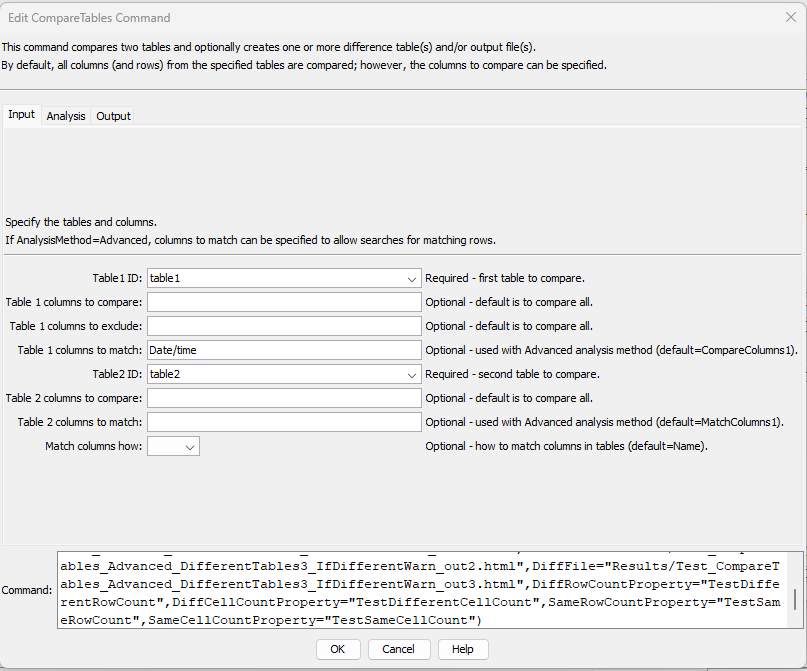
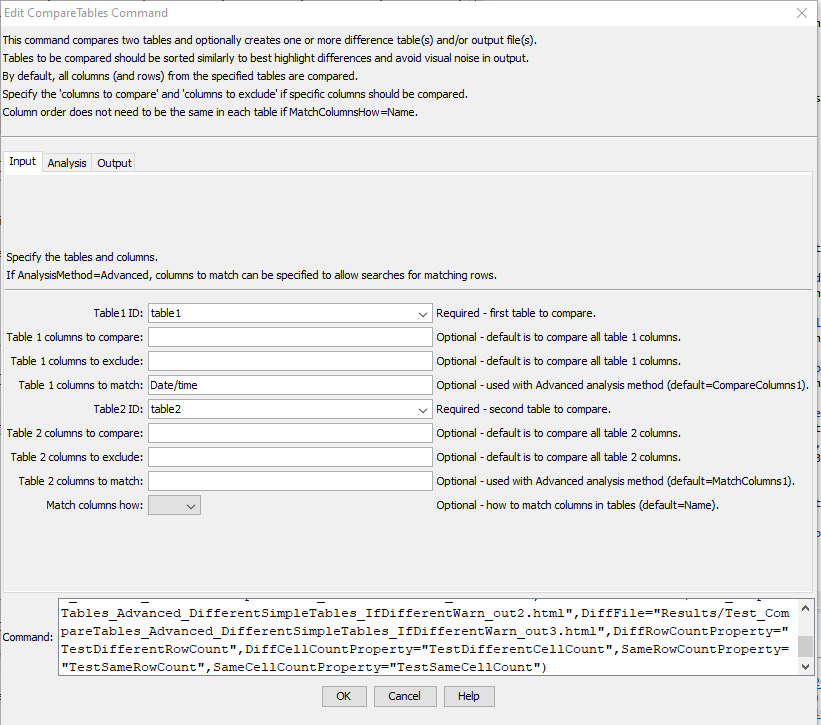
Update the documentation for the 14.9.4 release, issue #144

Changed region(s): [[0.0, 0.0, 1.0, 1.0], [0.0, 0.2086, 0.1549, 0.2385]]

diff --git a/mkdocs-project/docs/command-ref/Comment/Comment.md b/mkdocs-project/docs/command-ref/Comment/Comment.md
@@ -96,16 +96,16 @@ information to software that processes the commands.
 |`@enabled False`| Command processor.| **Used in automated tests.** Used to disable a command file.  For example, use this annotation in a test command file when the test is not ready for use in the software release process.|
 |`@enabledif ...` | Command processor. | **Used in automated tests.** The syntax is the same as `@require`, with the result being that if any conditions are not met, the command file is disabled.  Multiple annotations can be used, each with different requirements, for example to ensure that functionality is tested with different versions of a database datastore and software version. |
 |`@expectedStatus Failure`<br>`@expectedStatus Warning`|[`RunCommands`](../RunCommands/RunCommands.md) command| **Used in automated tests.** Used to help the test framework know if an error or warning is expected, in which case a test can pass even if the command status is not “success”.  If the actual status from a command file (most severe status of all commands) does not match the expected status, the user interface will indicate a failure. |
-|`@fixme ...`|| Indicate something to fix, such as a bug in the command file logic.  A comment typically has the form `#@fixme user date Comment`, for example: `#@fixme smalers 2021-06-14 Need to fix the following input file`. A future TSTool enhancement is planned to list such annotations. |
+|`@fixme ...`|| Indicate something to fix, such as a bug in the command file logic.  A comment typically has the form `#@fixme user date Comment`, for example: `#@fixme smalers 2021-06-14 Need to fix the following input file`. A blue notification marker will be shown in the command list.  A future TSTool enhancement is planned to list such annotations in the ***Results*** area. |
 |`@os Windows`<br>`@os UNIX`|[`CreateRegressionTestCommandFile`](../CreateRegressionTestCommandFile/CreateRegressionTestCommandFile.md) command| **Used in automated tests.** Used to filter out test command files that are not appropriate for the operating system.  Linux is included in UNIX.  **May be replaced by `@require` in the future.**|
 |`@readOnly`| TSTool main interface and command editors| **Used to restrict command file editing.** Indicates that the command file should not be edited.  TSTool will update old command syntax to current syntax when a command file is loaded.  However, this tag will cause the software to warn the user when saving the command file, so that they can cancel.  This tag is often used with templates to protect the template from mistakenly being edited and saved in TSTool (TSTool does not currently allow editing templates within the interface).|
 |`@require application TSTool version >= NN.NN.NN` | Command processor | **Used to ensure compatibility.** Indicate that an application version (in this case for TSTool software) is required to run the command file.  The operator can be `>`, `>=`, `=`, `<`, or `<=`.  The version should be specified using [Semantic versioning](https://semver.org/), for example `14.2.2`. Each part of the version is checked numerically and leading zeros are ignored; therefore `03` evaluates to `3`. If specified for automated tests, a test will only be run if the criteria are met, which allows tests to be developed for specific versions of the software.  If the criteria are not met during normal runs, an error is generated. Use multiple `@require` comments if necessary for multiple criteria checks. |
 |`@require datastore HydroBase version >= YYYYMMDD` | Command processor | **Used to ensure compatibility.** The syntax after the datastore name depends on the features implemented for a datastore (see the datastore's documenation).  Indicate that a datastore version (in this case for datastore named `HydroBase`) is required to run the command file.  The operator can be `>`, `>=`, `=`, `<`, or `<=`. The version string must be consistent with what is expected for a datastore.  For example, HydroBase versions use the `YYYYMMDD` syntax, whereas other datastores use semantic versions or other date strings. Refer to the datastore reference documentation for version format information.  Not all datastores support version checks. If specified for automated tests, the test will only be run if the criteria are met, which allows tests to be developed for specific versions of the software.  If the criteria are not met during normal runs, an error is generated. Use multiple `@require` comments if necessary for multiple criteria checks. |
 |`@require user == name`<br>`@require user != name` | Command processor | **Used to ensure compatibility.** Indicate whether the command file is restricted to a certain user.  This has mainly been used to ensure that automated tests are run as the correct user.  Tests can be grouped by user using a test suite.  A user requirement that fails causes command processing to exit. For example: `@require user == root` |
-|`@sourceUrl https://path/to/source/x.tstool` | TSTool main interface, ***Tools / Commands***. | The URL for the original source file, for example in a GitHub repository.  The URL is used by TSTool features (see ***Tools / Commands*** menu) to compare the current commands with the original source.  The URL should link to the raw file, not a web page that includes menus, etc. |
+|`@sourceUrl https://path/to/source/x.tstool` | TSTool main interface, ***Tools / Commands***. | The URL for the original source file, for example in a GitHub repository.  The URL is used by TSTool features (see ***Tools / Commands*** menu) to compare the current commands with the original source.  The URL should link to the raw file, not a web page that includes menus, etc. If the current command file has a different version (based on a `@version` annotation), a blue marker will be shown next to the command in the command list. |
 |`@template`| TSTool main interface | **Used with template processing.** Indicates a template command file that is intended to be expanded with the [`ExpandTemplateFile`](../ExpandTemplateFile/ExpandTemplateFile.md) command.  Currently, a text file editor may need to be used to edit template files because the TSTool user interface checks commands for final syntax and may generate warnings for template files.| The command file is not a template. |
 |`@testSuite ABC`|[`CreateRegressionTestCommandFile`](../CreateRegressionTestCommandFile/CreateRegressionTestCommandFile.md) command| **Used in automated tests**. Used to filter out test command files that are not appropriate for the operating system. |
-|`@todo ...`|| Indicate something to do, such as a future enhancement to the command file. A comment typically has the form `#@todo user date Comment`, for example: `#@todo smalers 2021-06-14 Need to fill the following time series`. A future TSTool enhancement is planned to list such annotations. |
+|`@todo ...`|| Indicate something to do, such as a future enhancement to the command file. A comment typically has the form `#@todo user date Comment`, for example: `#@todo smalers 2021-06-14 Need to fill the following time series`. A blue notification marker will be shown in the command list.  A future TSTool enhancement is planned to list such annotations in the ***Results*** area. |
 |`@version 1.2.3`<br>`@version YYYY-MM-DD`<br>`@version YYYY-MM-DDThh:mm:ss`| TSTool main interface, ***Tools / Commands***. | The version for the command file, used for documentation and to allow comparison when `sourceUrl` is specified.  Specify either a [semantic version](https://semver.org/) (without whitespace in the version string) or an [ISO 8601](https://en.wikipedia.org/wiki/ISO_8601) date/time string. The version can be cross-referenced to release notes for a workflow. |
 |`@versionDate YYYY-MM-DD`<br>`@versionDate YYYY-MM-DDThh:mm:ss`| TSTool main interface, ***Tools / Commands***. | The version date/time for the command file, used for documentation and to allow comparison when `sourceUrl` is specified. Specify an [ISO 8601](https://en.wikipedia.org/wiki/ISO_8601) date/time string. The version date/time indicates a release date and/or effective date/time for a workflow. If the `version` is the same for local and source copies of the command file, the `versionDate` can be used to indicate updates. |
 

diff --git a/mkdocs-project/docs/command-ref/CompareTables/CompareTables.md b/mkdocs-project/docs/command-ref/CompareTables/CompareTables.md
@@ -13,13 +13,15 @@
 
 The `CompareTables` command compares data from two tables, with the following considerations:
 
+*   The tables to compare should be sorted similarly (or have similar content)
+    to avoid the results showing a large number of differences.
 *   Comparisons are made using the data values formatted as strings based on the precision shown in tables.
     +   If the table was read with [`ReadTableFromDelimitedFile`](../ReadTableFromDelimitedFile/ReadTableFromDelimitedFile.md),
         the precision for floating point numbers is set based on the largest
         number of digits after the decimal encountered in the input.
     +   If the table was read from a database, the precision is based on database column precision.
     +   The precision from other sources depends on the input source.
-*   A precision and tolerance can optionally be specified to control the comparison of floating point values.
+*   A tolerance can optionally be specified to control the comparison of floating point values.
 *   The first table's content is considered the primary content for comparison purposes.
 *   The comparison can use the `Simple` or `Advanced` analysis method.
     +   `AnalysisMethod=Simple` assumes that the tables have the same structure and
@@ -110,13 +112,14 @@ Input Command Parameters
 
 |**Parameter**&nbsp;&nbsp;&nbsp;&nbsp;&nbsp;&nbsp;&nbsp;&nbsp;&nbsp;&nbsp;&nbsp;&nbsp;&nbsp;&nbsp;&nbsp; | **Description** | **Default**&nbsp;&nbsp;&nbsp;&nbsp;&nbsp;&nbsp;&nbsp;&nbsp;&nbsp;&nbsp;&nbsp;&nbsp;&nbsp;&nbsp;&nbsp;&nbsp;&nbsp;&nbsp;&nbsp;&nbsp;&nbsp; |
 |--------------|-----------------|----------------- |
-|`Table1ID`<br>**required**|The identifier for the first table to be compared, can use `${Property}` notation.|None – must be specified.|
-|`Table2ID`<br>**required**|The identifier for the second table to be compared, can use `${Property}` notation. | None – must be specified. |
-|`CompareColumns1`|The names of columns to be compared from the first table, separated by commas, can use `${Property}` notation.|All columns will be compared.|
-|`ExcludeColumns1`|The names of columns in the first table to be excluded from the comparison, separated by commas, can use `${Property}` notation.|All columns will be compared.|
-|`MatchColumns1`|Used with `AnalysisMethod=Advanced`, the names of columns in the first table to be matched when aligning rows, separated by commas, can use `${Property}` notation.|All columns will be compared to align.|
-|`CompareColumns2`|The names of columns to be compared from the second table, separated by commas, can use `${Property}` notation.|All columns will be compared, can use `${Property}` notation.|
-|`MatchColumns2`|Used with `AnalysisMethod=Advanced`, the names of columns in the second table to be matched when aligning rows, separated by commas, can use `${Property}` notation.|All columns will be compared to align.|
+|`Table1ID`<br>**required**|The identifier for the first table to compare, can use `${Property}` notation.|None – must be specified.|
+|`Table2ID`<br>**required**|The identifier for the second table to compare, can use `${Property}` notation. | None – must be specified. |
+|`CompareColumns1`|The names of columns to compare from the first table, separated by commas, can use `${Property}` notation.|All columns will be compared.|
+|`ExcludeColumns1`|The names of columns in the first table to exclude from the comparison, separated by commas, can use `${Property}` notation.|All columns will be compared.|
+|`MatchColumns1`|Used with `AnalysisMethod=Advanced`, the names of columns in the first table to match when aligning rows, separated by commas, can use `${Property}` notation.|All columns will be compared to align.|
+|`CompareColumns2`|The names of columns to compare from the second table, separated by commas, can use `${Property}` notation.|All columns will be compared, can use `${Property}` notation.|
+|`ExcludeColumns2`|The names of columns in the second table to exclude from the comparison, separated by commas, can use `${Property}` notation.|All columns will be compared.|
+|`MatchColumns2`|Used with `AnalysisMethod=Advanced`, the names of columns in the second table to match when aligning rows, separated by commas, can use `${Property}` notation.|All columns will be compared to align.|
 |`MatchColumnsHow`|Indicate how columns are matched:<ul><li>`Name` - match column names</li><li>`Order` - match columns by order number (used when column names are not available)</li></ul>| `Name` |
 
 **<p style="text-align: center;">
@@ -129,8 +132,8 @@ Analysis Command Parameters
 |`Precision`|The number of digits after the decimal to consider when comparing floating point values. If values are different to the specified (or default) precision, both values are shown in the comparison table.|Format floating point numbers as strings for comparison according to the table column precision.|
 |`Tolerance`|A value indicating the allowed difference between floating point values.  The tolerance should be consistent with the precision (i.e., don’t specify a coarse precision and fine tolerance).  If the difference is less than the tolerance, the values will not be marked as different.|Floating point values must exactly match, according to the precision.|
 |`AllowedDiff`|The allowed number of differences before triggering a Warn/Fail message (see `IfDifferent`).  A value >= 0 indicates that the number of differences must be the same as the specified value.  A negative value indicates that the number of differences can be less than or equal to the specified value.  This parameter is useful for constructing tests where a specified number of differences is expected.|0|
-|`IfDifferent`|Indicates the action to be taken if the tables are different:<ul><li>`Ignore` – do not generate warning</li><li>`Warn` – generate a warning message</li><li>`Fail` – generate a failure message</li></ul>|Do not generate a warning if the tables are different.|
-|`IfSame`|Indicates the action to be taken if the tables are the same:<ul><li>`Ignore` – do not generate warning</li><li>`Warn` – generate a warning message</li><li>`Fail` – generate a failure message</li></ul>|Do not generate a warning if the tables are the same.|
+|`IfDifferent`|Indicates the action to take if the tables are different:<ul><li>`Ignore` – do not generate warning</li><li>`Warn` – generate a warning message</li><li>`Fail` – generate a failure message</li></ul>|Do not generate a warning if the tables are different.|
+|`IfSame`|Indicates the action to take if the tables are the same:<ul><li>`Ignore` – do not generate warning</li><li>`Warn` – generate a warning message</li><li>`Fail` – generate a failure message</li></ul>|Do not generate a warning if the tables are the same.|
 
 **<p style="text-align: center;">
 Output Command Parameters

diff --git a/mkdocs-project/docs/command-ref/SortTable/SortTable.md b/mkdocs-project/docs/command-ref/SortTable/SortTable.md
@@ -11,9 +11,15 @@
 
 ## Overview ##
 
-The `SortTable` command sorts rows in a table by sorting the values in one or more columns.
-The column(s) to be sorted can be of type string, integer, double, float, or date/time.
-Strings are sorted by ignoring case.
+The `SortTable` command sorts rows and/or columns in a table:
+
+*   sort rows:
+    +   specify one or more columns
+    +   the column(s) to be sorted can be of type string, integer, double, float, or date/time.
+    +   strings are sorted by ignoring case
+*   sort columns:
+    +   specify one or more columns
+    +   columns that are not sorted are shifted to the right side of the table
 
 ## Command Editor ##
 
@@ -24,11 +30,19 @@ The command is available in the following TSTool menu:
 The following dialog is used to edit the command and illustrates the command syntax.
 
 **<p style="text-align: center;">
-![SortTable command editor](SortTable.png)
+![SortTable command editor for sorting rows](SortTable-rows.png)
 </p>**
 
 **<p style="text-align: center;">
-`SortTable` Command Editor (<a href="../SortTable.png">see full-size image</a>)
+`SortTable` Command Editor for Row Sort Parameters (<a href="../SortTable-rows.png">see full-size image</a>)
+</p>**
+
+**<p style="text-align: center;">
+![SortTable command editor for reordering columns](SortTable-columns.png)
+</p>**
+
+**<p style="text-align: center;">
+`SortTable` Command Editor for Column Reorder Parameters (<a href="../SortTable-columns.png">see full-size image</a>)
 </p>**
 
 ## Command Syntax ##
@@ -44,9 +58,10 @@ Command Parameters
 
 | **Parameter**&nbsp;&nbsp;&nbsp;&nbsp;&nbsp;&nbsp;&nbsp;&nbsp;&nbsp;&nbsp;&nbsp;&nbsp; | **Description** | **Default**&nbsp;&nbsp;&nbsp;&nbsp;&nbsp;&nbsp;&nbsp;&nbsp;&nbsp;&nbsp; |
 | --------------|-----------------|----------------- |
-|`TableID`|The identifier for the table.  Can be specified using processor `${Property}`.|None – must be specified.|
-|`SortColumns`|The names of columns to sort, separated by commas.  One or more columns can be sorted.|None – must be specified.|
+|`TableID`|The identifier for the table.  Can be specified using processor `${Property}`.|  |
+|`SortColumns`| When sorting rows, specify the names of columns to sort, separated by commas. | None – must be specified.|
 |`SortOrder`|The sort order for columns specified by `SortColumns`, using the syntax:<br>`SortColumn1:Ascending,SortColumn2:Descending`<br>As indicated in the above example, the sort order must be specified as one of the following:<ul><li>`Ascending`</li><li>`Descending`</li></ul>|`Ascending`|
+|`OrderColumns`| When reordering columns, specify the names of columns in the desired order, separated by commas.  | |
 
 ## Examples ##
 

diff --git a/mkdocs-project/docs/appendix-release-notes/release-notes-14.md b/mkdocs-project/docs/appendix-release-notes/release-notes-14.md
@@ -5,6 +5,7 @@ See also the [GitHub repository issues](https://github.com/OpenCDSS/cdss-app-tst
 for outstanding issues and enhancement requests.
 Issues may also be included in other repositories that are TSTool components.
 
+*   [Changes in Version 14.9.4](#changes-in-version-1494)
 *   [Changes in Version 14.9.3](#changes-in-version-1493)
 *   [Changes in Version 14.9.2](#changes-in-version-1492)
 *   [Changes in Version 14.9.1](#changes-in-version-1491)
@@ -40,6 +41,26 @@ Issues may also be included in other repositories that are TSTool components.
 *   [Release notes for all versions](release-notes.md)
 
 ----------
+
+## Changes in Version 14.9.4 ##
+
+**Maintenance release to improve table comparison and enable command notifications.**
+
+*   ![bug](bug.png) [14.9.4] Update the
+    [`ReadTableFromJSON`](../command-ref/ReadTableFromJSON/ReadTableFromJSON.md) command:
+    +    Fix so that the table that is created is listed in other command editors.
+*   ![change](change.png) [14.9.4] Add command notifications:
+    +    The `@fixme` and `@todo` [`Comment`](../command-ref/Comment/Comment.md) comment annotations
+         will cause a blue marker to be shown in the command list
+         as a visual notification that action should be take to improve the command file.
+    +    The `@sourceUrl` [`Comment`](../command-ref/Comment/Comment.md) comment annotation
+         will show a blue marker if the available source copy of the command file is different from the current version.
+*   ![change](change.png) [14.9.4] Update the
+    [`CompareTables`](../command-ref/CompareTables/CompareTables.md) command:
+    +    Add the `ExcludeColumns2` parameter to provide more control over which columns are compared.
+*   ![change](change.png) [14.9.4] Update the
+    [`SortTable`](../command-ref/SortTable/SortTable.md) command:
+    +    Add the `OrderColumns` parameter to recorder columns.
 
 ## Changes in Version 14.9.3 ##
 

diff --git a/mkdocs-project/docs/appendix-release-notes/release-notes.md b/mkdocs-project/docs/appendix-release-notes/release-notes.md
@@ -34,6 +34,7 @@ TSTool Version History Summary (most current at top)
 
 |**TSTool Version(s)**&nbsp;&nbsp;&nbsp;&nbsp;&nbsp;&nbsp;&nbsp;&nbsp;&nbsp;&nbsp;&nbsp;&nbsp;&nbsp;&nbsp;&nbsp;&nbsp;&nbsp;&nbsp;&nbsp;&nbsp;|**Summary of Major Changes in Version**|**Release Date**|
 |--|--|--|
+|[14.9.4](release-notes-14.md)|Maintenance release to improve table comparison and enable command notifications. | 2024-04-15 |
 |[14.9.3](release-notes-14.md)|Maintenance release to improve table comparison and math, and time series comparison. | 2024-03-07 |
 |[14.9.2](release-notes-14.md)|Maintenance release to enable step graph. | 2024-01-02 |
 |[14.9.1](release-notes-14.md)|Maintenance release to enhance plugin integration and fix workflow issues. | 2023-12-04 |

diff --git a/mkdocs-project/docs/index.md b/mkdocs-project/docs/index.md
@@ -12,7 +12,7 @@ This documentation is generally referred to as the **"User Documentation"** in c
 *   [About the Open Water Foundation](#about-the-open-water-foundation)
 *   [License](#license)
 *   [Source Repository on GitHub](#source-repository-on-github)
-*   [Release Notes](appendix-release-notes/release-notes-14.md) - **this documentation has been updated for TSTool version 14.9.3**
+*   [Release Notes](appendix-release-notes/release-notes-14.md) - **this documentation has been updated for TSTool version 14.9.4**
 
 ----------------
 
